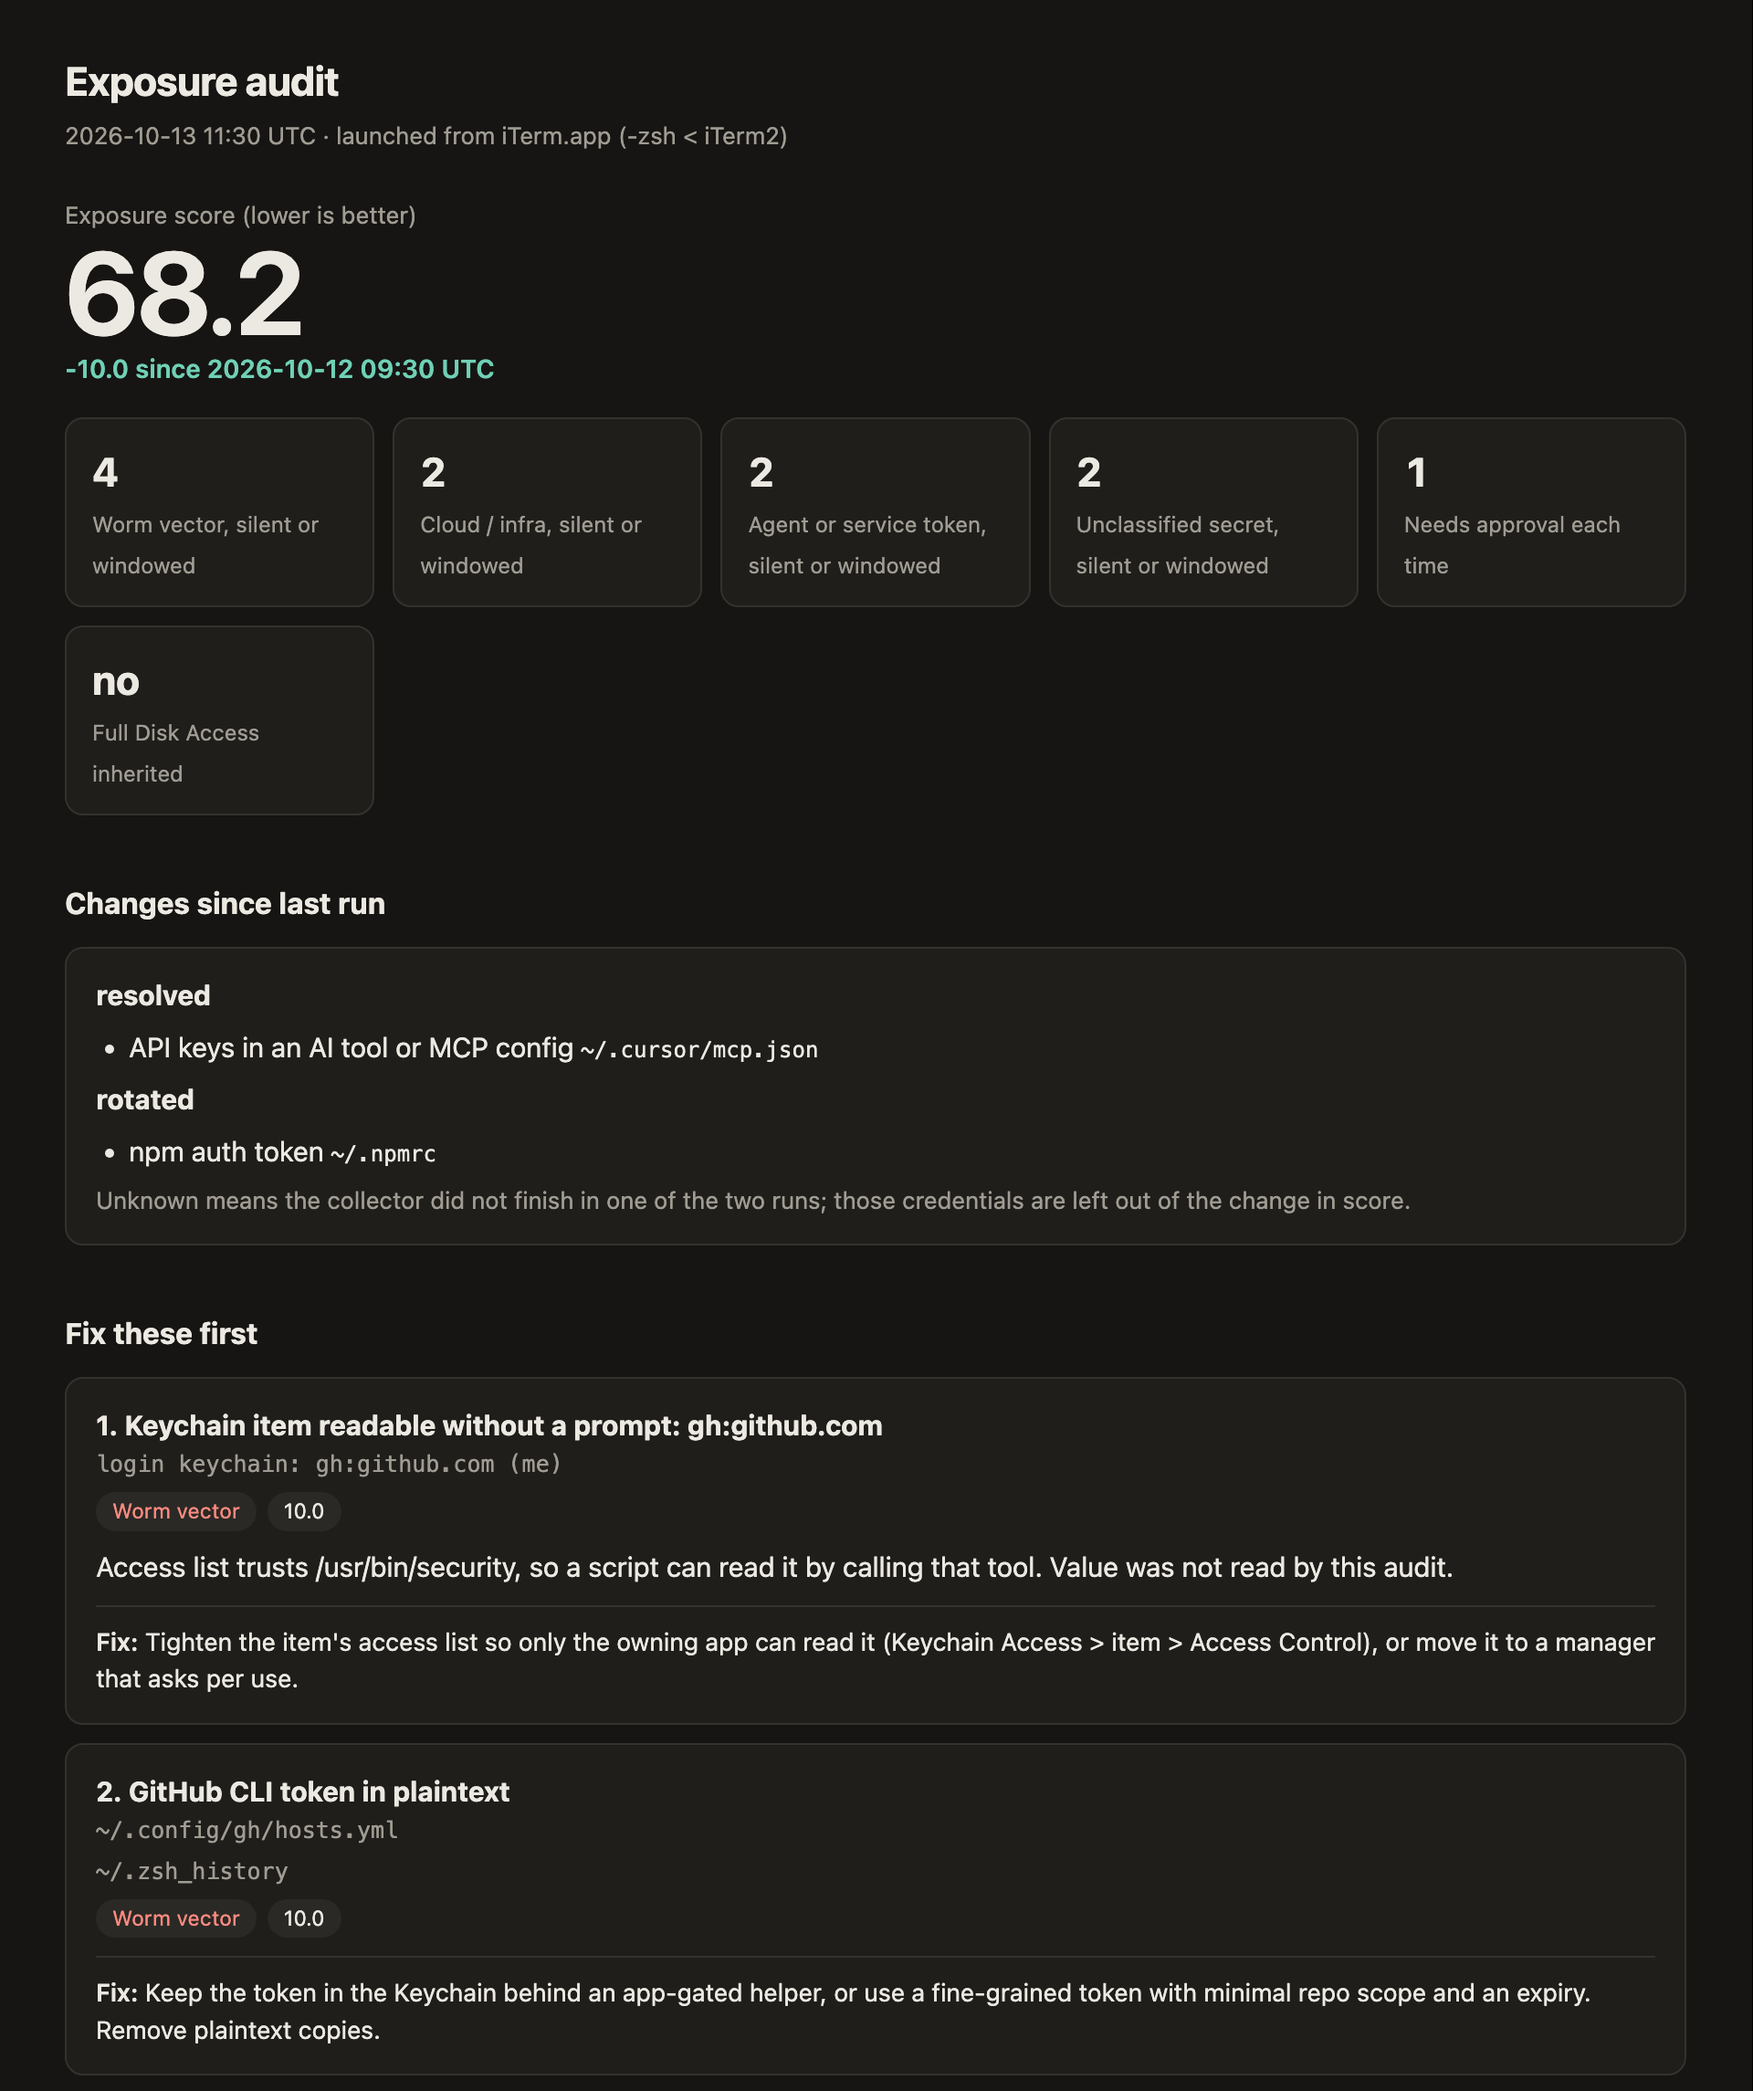
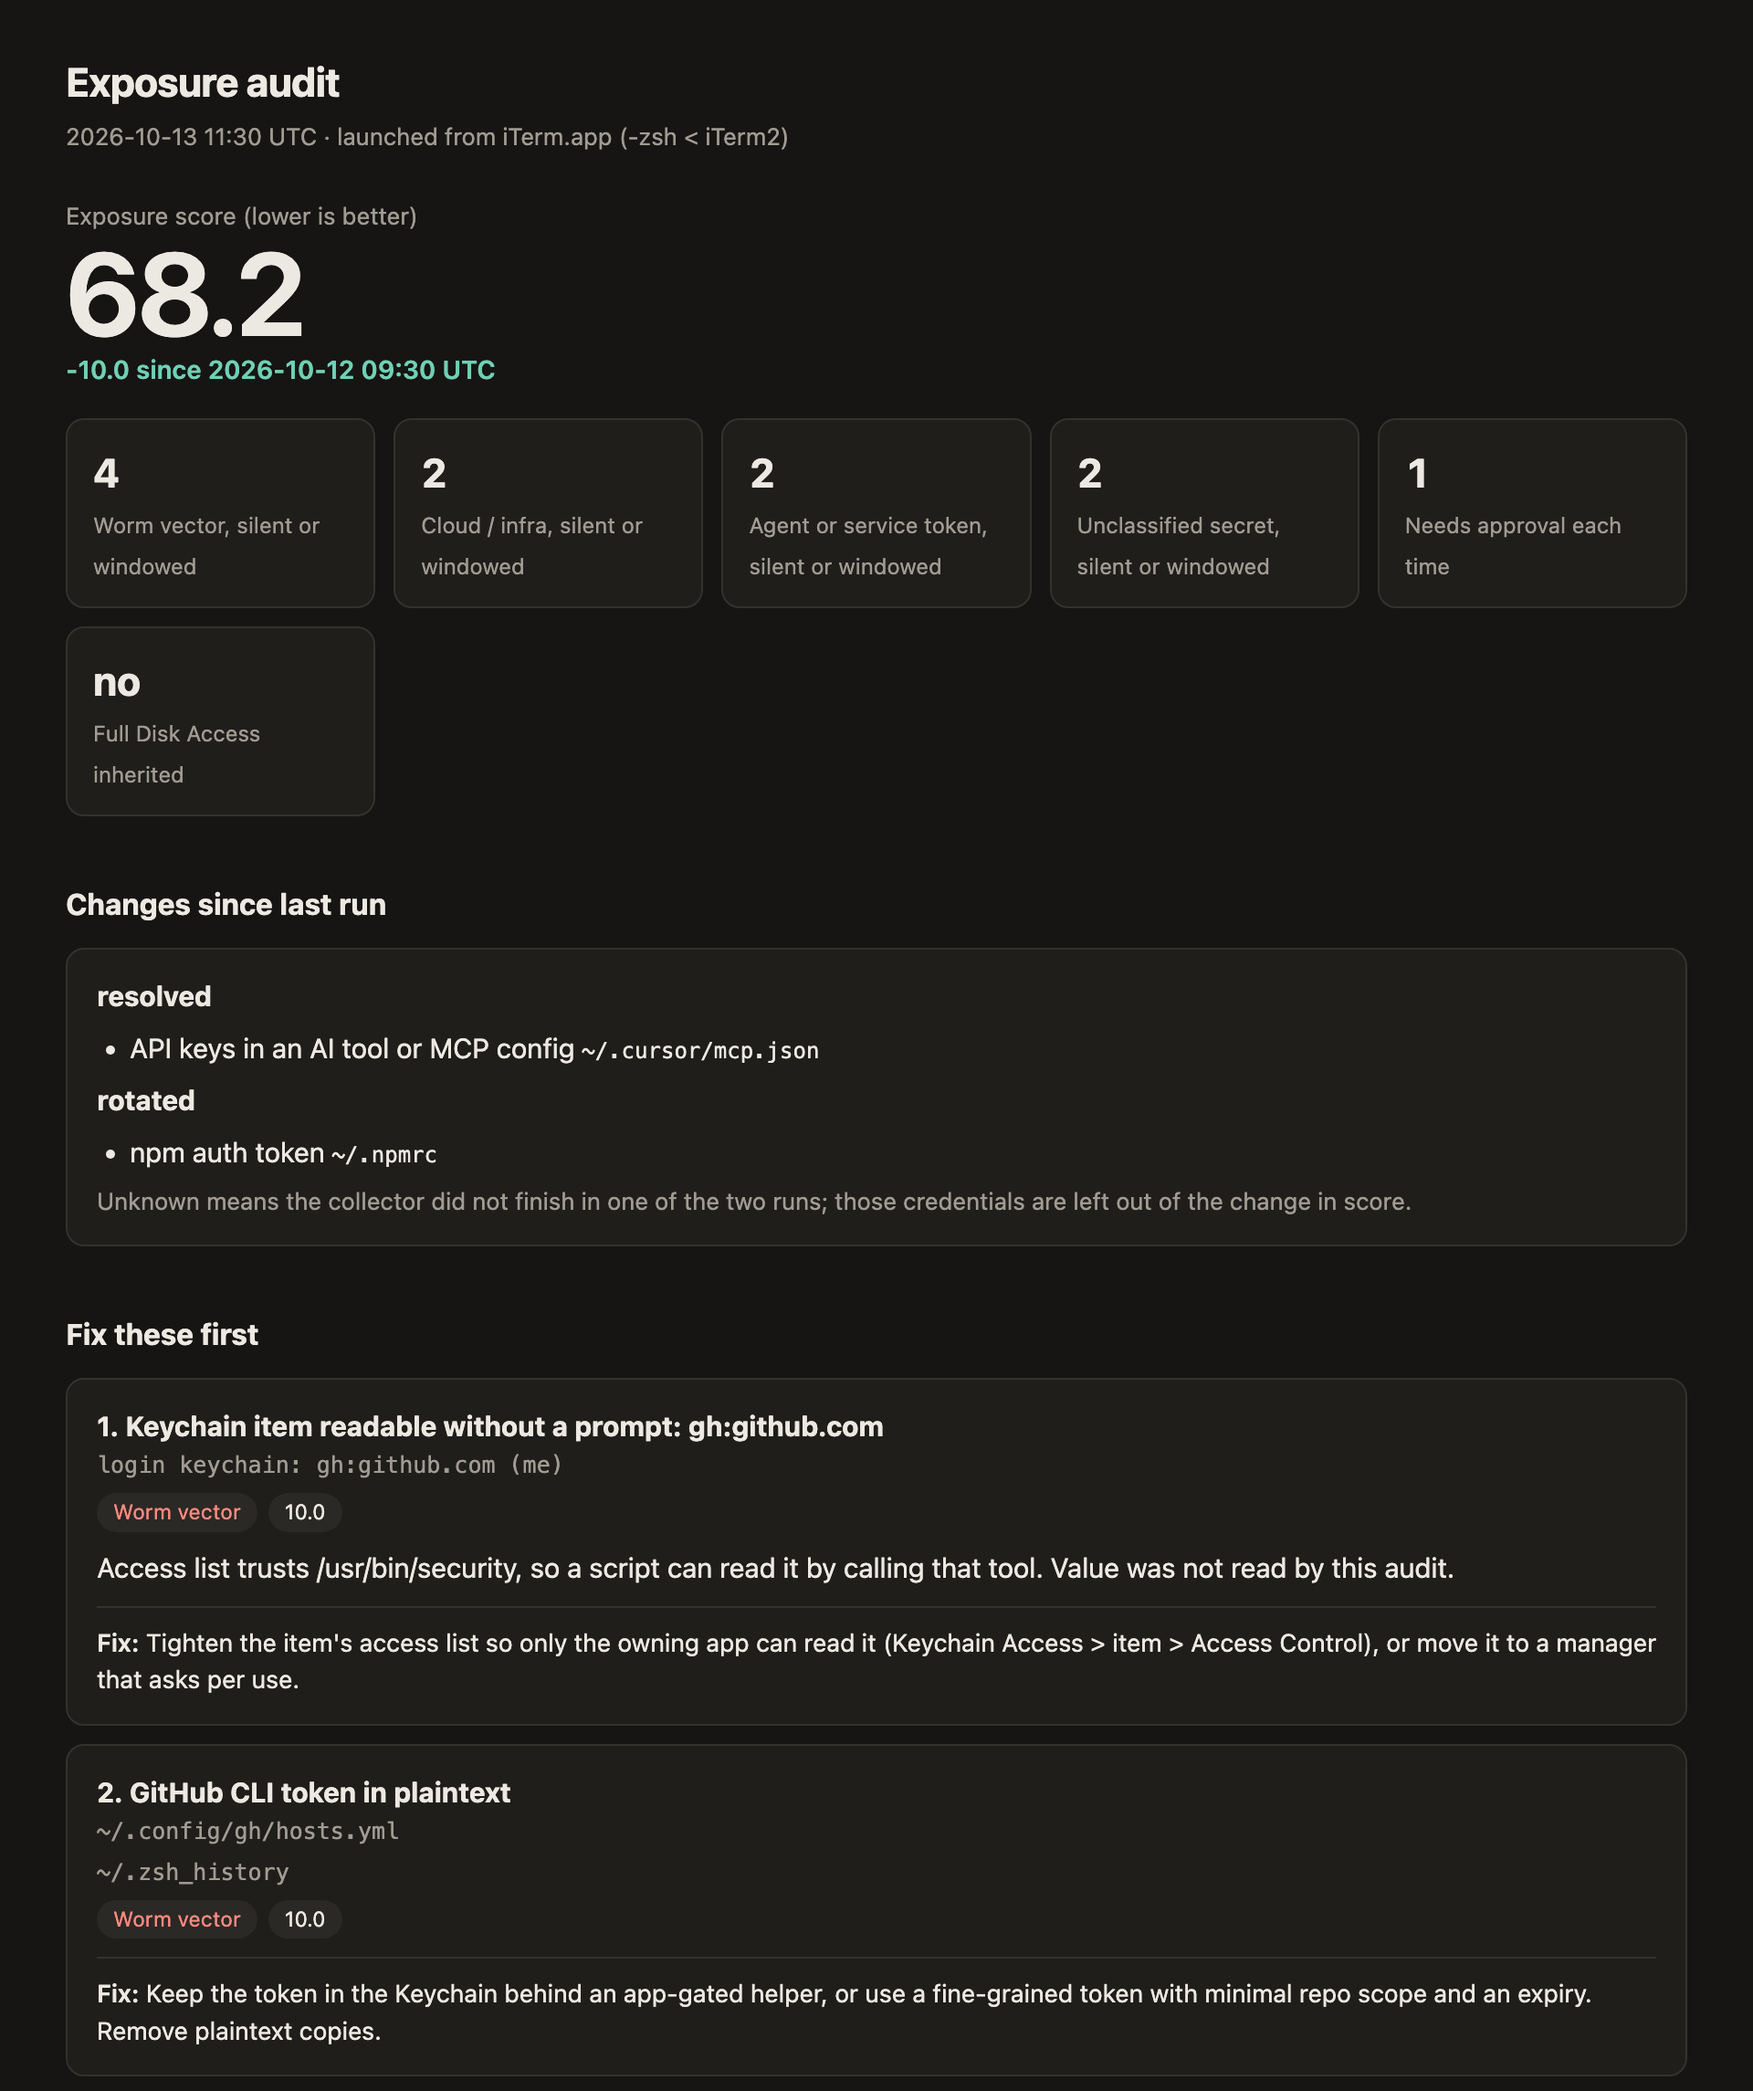
Repeatable README screenshots: docs/screenshots.sh
screenshot_test.go builds the fixture home and writes the report and
summary (skipped unless SCREENSHOT_OUT is set); the script renders each
picture as its own headless-Chrome viewport in a fixed dark scheme and
refuses output containing an absolute path.

diff --git a/screenshot_test.go b/screenshot_test.go
@@ -1,0 +1,82 @@
+package main
+
+// Renders the README screenshots' source from a fake home. Skipped unless
+// SCREENSHOT_OUT is set; docs/screenshots.sh runs it and takes the pictures.
+
+import (
+	"bytes"
+	"os"
+	"path/filepath"
+	"testing"
+	"time"
+)
+
+func TestScreenshotFixture(t *testing.T) {
+	out := os.Getenv("SCREENSHOT_OUT")
+	if out == "" {
+		t.Skip("SCREENSHOT_OUT not set")
+	}
+	dump := readTestdata(t, "keychain_section12.txt")
+	fx := baseFixture(t)
+	fx.goos = "darwin"
+	fx.write("Library/Keychains/login.keychain-db", "")
+	fx.stubs["/usr/bin/security"] = func([]string) ([]byte, int) { return []byte(dump), 0 }
+	fx.stubs["/bin/ps"] = func(args []string) ([]byte, int) {
+		chain := map[string]string{"4242": "4100 exposure-audit", "4100": "4000 -zsh", "4000": "1 iTerm2"}
+		return []byte(chain[args[len(args)-1]]), 0
+	}
+	fx.setenv("TERM_PROGRAM", "iTerm.app")
+	fx.setenv("USER", "demo")
+	// Sparse files: realistic sizes in Data reach without writing gigabytes.
+	for rel, size := range map[string]int64{
+		"Documents/taxes-2025.pdf": 4 << 20, "Documents/contracts/lease.pdf": 2 << 20, "Documents/photos.zip": 3 << 30,
+		"Downloads/installer.dmg": 900 << 20, "Downloads/report.csv": 12 << 20, "Desktop/screenshot.png": 3 << 20,
+		"Library/Application Support/Google/Chrome/Default/Cookies":    6 << 20,
+		"Library/Application Support/Google/Chrome/Default/Login Data": 1 << 20,
+		"Library/Application Support/Slack/storage/root-state.json":    40 << 20,
+	} {
+		if err := os.Truncate(fx.write(rel, ""), size); err != nil {
+			t.Fatal(err)
+		}
+	}
+	// A folder the terminal is denied, so Full Disk Access is inferred "no".
+	mail := filepath.Join(fx.home, "Library/Mail")
+	fx.write("Library/Mail/V10/x", "")
+	os.Chmod(mail, 0)
+	t.Cleanup(func() { os.Chmod(mail, 0o755) })
+
+	run := func(args ...string) string {
+		var o, e bytes.Buffer
+		fx.now = fx.now.Add(time.Second)
+		app := &App{Env: fx.env(), Stdout: &o, Stderr: &e, Deadline: 5 * time.Second}
+		if code := app.Main(append(args, "-probe-folders")); code != 0 {
+			t.Fatalf("exit %d: %s", code, e.String())
+		}
+		return o.String()
+	}
+	run()
+	// A day later: the npm token was rotated and the Cursor MCP token removed.
+	fx.now = fx.now.Add(26 * time.Hour)
+	fx.write(".npmrc", "//registry.npmjs.org/:_authToken="+fx.secret("npm_", 36)+"\n")
+	if err := removeFile(fx, ".cursor/mcp.json"); err != nil {
+		t.Fatal(err)
+	}
+	summary := run()
+	// Drop that run's snapshot so the -open run also diffs against the first.
+	hist, _ := filepath.Glob(filepath.Join(fx.home, stateDirName, "history", "*.json"))
+	os.Remove(hist[len(hist)-1])
+
+	var report []byte
+	fx.stubs["/usr/bin/open"] = func(args []string) ([]byte, int) {
+		report, _ = os.ReadFile(args[0]) // read before openReport deletes it
+		return nil, 0
+	}
+	run("-open")
+
+	fx.assertNoMarkers(summary, string(report))
+	for name, b := range map[string][]byte{"report.html": report, "summary.txt": []byte(summary)} {
+		if err := os.WriteFile(filepath.Join(out, name), b, 0o600); err != nil {
+			t.Fatal(err)
+		}
+	}
+}

diff --git a/README.md b/README.md
@@ -10,7 +10,7 @@ The reference threat is the [Shai-Hulud npm worm](https://www.sysdig.com/blog/re
 
 ## Screenshots
 
-> These were rendered from the test harness's fake home (`baseFixture`), with fabricated tokens and the committed, sanitized Keychain sample. No real machine was scanned.
+> These were rendered from the test harness's fake home (`baseFixture`), with fabricated tokens and the committed, sanitized Keychain sample. No real machine was scanned. Regenerate them with [`docs/screenshots.sh`](docs/screenshots.sh).
 
 The score, the changes since your last run, and the ranked "Fix these first" list:
 
@@ -131,7 +131,8 @@ These are enforced by tests (see [`invariants_test.go`](invariants_test.go) and 
 ## Development
 
 ```sh
-./test.sh   # gofmt, go vet, Linux and darwin/arm64 builds, tests
+./test.sh              # gofmt, go vet, Linux and darwin/arm64 builds, tests
+docs/screenshots.sh    # regenerate the README screenshots (macOS, Google Chrome)
 ```
 
 Tests run the whole tool in-process against a temporary fake home, with fake tokens built at runtime. Never point the tests or the binary at someone else's home directory. [`HANDOFF.md`](HANDOFF.md) has the design and decisions; [`REVIEW.md`](REVIEW.md) tracks review findings.
